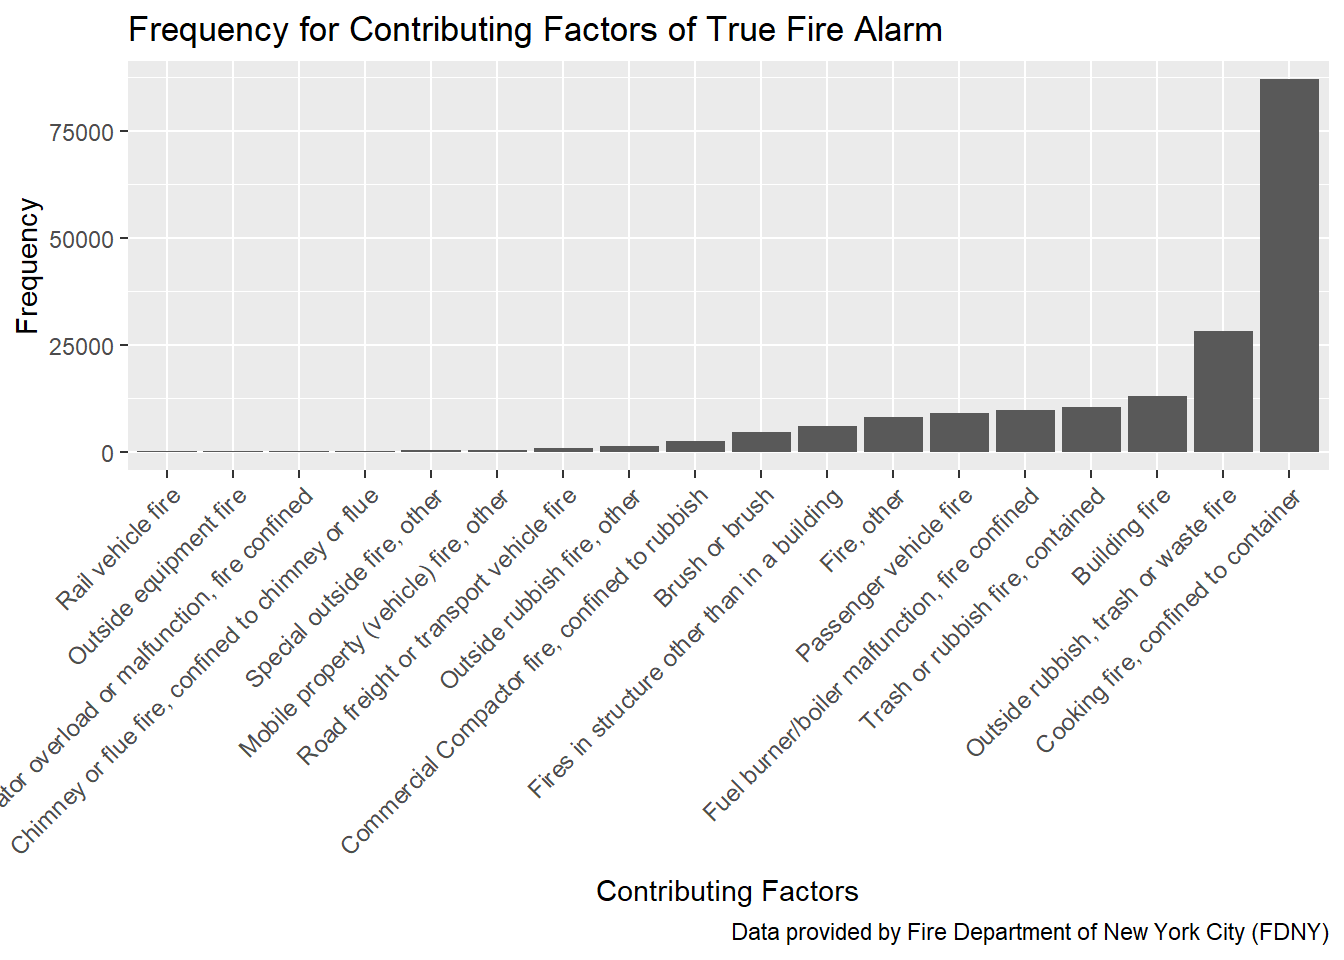
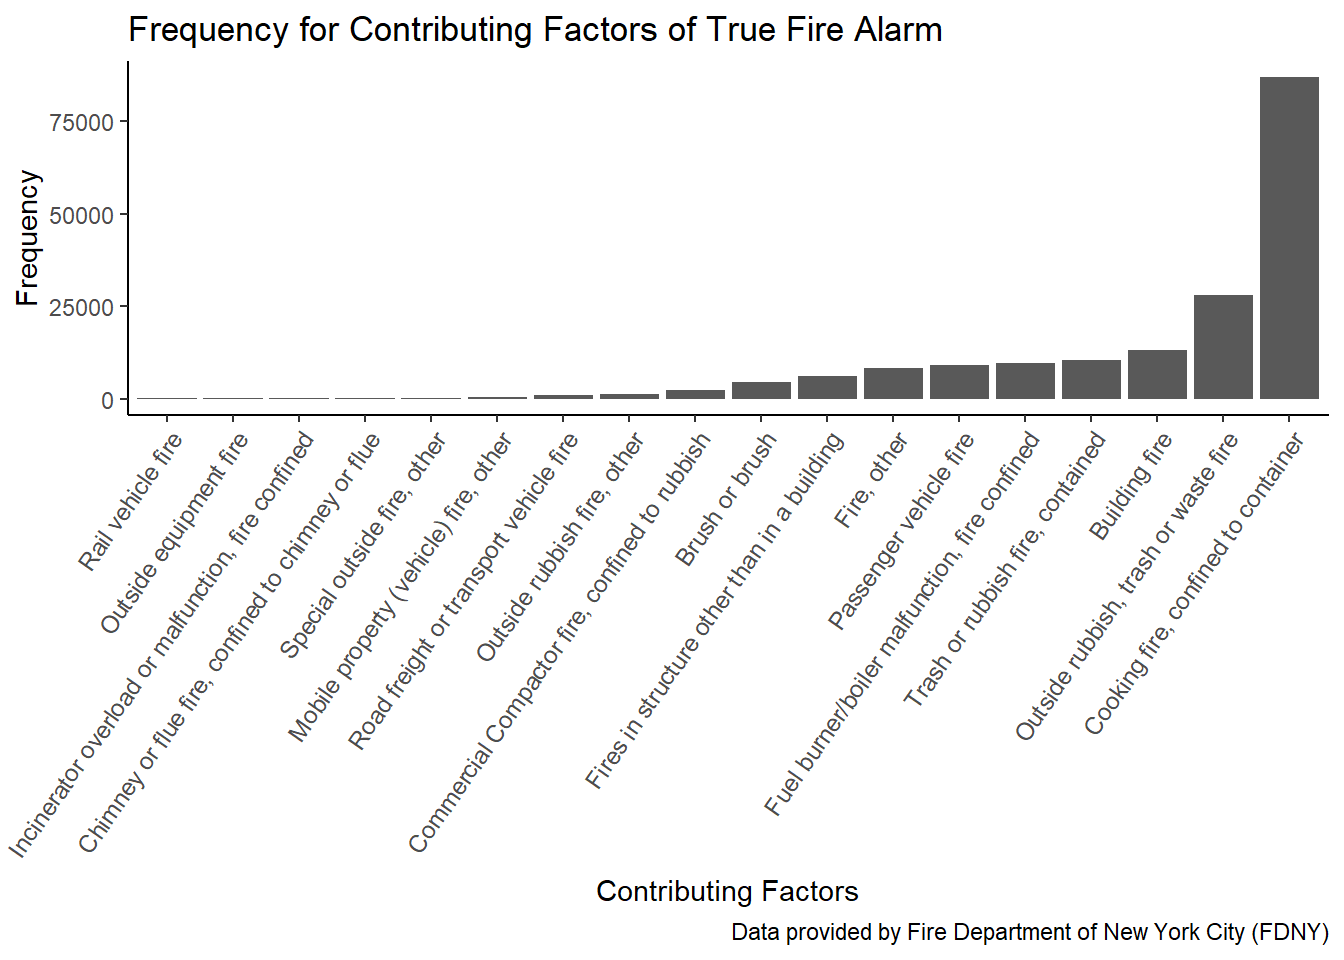
change of data import and plot theme related to fire factors

diff --git a/fire_factors.html b/fire_factors.html
@@ -15,7 +15,7 @@
 
 <script src="site_libs/jquery-1.11.3/jquery.min.js"></script>
 <meta name="viewport" content="width=device-width, initial-scale=1" />
-<link href="site_libs/bootstrap-3.3.5/css/bootstrap.min.css" rel="stylesheet" />
+<link href="site_libs/bootstrap-3.3.5/css/flatly.min.css" rel="stylesheet" />
 <script src="site_libs/bootstrap-3.3.5/js/bootstrap.min.js"></script>
 <script src="site_libs/bootstrap-3.3.5/shim/html5shiv.min.js"></script>
 <script src="site_libs/bootstrap-3.3.5/shim/respond.min.js"></script>
@@ -105,34 +105,34 @@ button.code-folding-btn:focus {
 <style type="text/css">
 /* padding for bootstrap navbar */
 body {
-  padding-top: 51px;
+  padding-top: 60px;
   padding-bottom: 40px;
 }
 /* offset scroll position for anchor links (for fixed navbar)  */
 .section h1 {
-  padding-top: 56px;
-  margin-top: -56px;
+  padding-top: 65px;
+  margin-top: -65px;
 }
 
 .section h2 {
-  padding-top: 56px;
-  margin-top: -56px;
+  padding-top: 65px;
+  margin-top: -65px;
 }
 .section h3 {
-  padding-top: 56px;
-  margin-top: -56px;
+  padding-top: 65px;
+  margin-top: -65px;
 }
 .section h4 {
-  padding-top: 56px;
-  margin-top: -56px;
+  padding-top: 65px;
+  margin-top: -65px;
 }
 .section h5 {
-  padding-top: 56px;
-  margin-top: -56px;
+  padding-top: 65px;
+  margin-top: -65px;
 }
 .section h6 {
-  padding-top: 56px;
-  margin-top: -56px;
+  padding-top: 65px;
+  margin-top: -65px;
 }
 </style>
 
@@ -226,22 +226,10 @@ $(document).ready(function () {
 </div>
 
 
-<pre class="r"><code># turn the factor variables with one level to character or integer
+<pre class="r"><code># load data from online source
 
-fire_data = read.csv(file = &quot;./data/Incidents_Responded_to_by_Fire_Companies.csv&quot;) %&gt;%
-  janitor::clean_names() %&gt;%
-  mutate(incident_type_desc = as.character(incident_type_desc),
-         incident_date_time = as.character(incident_date_time),
-         arrival_date_time = as.character(arrival_date_time),
-         last_unit_cleared_date_time = as.character(last_unit_cleared_date_time),
-         action_taken1_desc = as.character(action_taken1_desc),
-         action_taken2_desc = as.character(action_taken2_desc),
-         action_taken3_desc = as.character(action_taken3_desc),
-         property_use_desc = as.character(property_use_desc),
-         street_highway = as.character(street_highway),
-         zip_code = as.integer(zip_code),
-         floor = as.integer(floor)
-         )</code></pre>
+fire_data = read.socrata(&quot;https://data.cityofnewyork.us/resource/ibte-hq4u.csv&quot;) %&gt;%
+  janitor::clean_names()</code></pre>
 <pre class="r"><code># count the frequency of the specific description of incidents and plot with order
 
 fire_factor1 = fire_data %&gt;%
@@ -250,12 +238,11 @@ fire_factor1 = fire_data %&gt;%
   arrange(desc(count)) %&gt;%
   ungroup() %&gt;% 
   separate(incident_type_desc, into = c(&quot;incident_type&quot;, &quot;incident_desc&quot;), sep = &quot;-&quot;) %&gt;% 
-  mutate(incident_type = as.integer(incident_type),
+  mutate(incident_type = str_sub(incident_type, 1, 3), 
+         incident_type = as.integer(incident_type),
     incident_desc = forcats::fct_reorder(incident_desc, count))</code></pre>
 <pre><code>## Warning: Expected 2 pieces. Additional pieces discarded in 13 rows [19, 22,
 ## 44, 81, 82, 85, 89, 91, 108, 134, 141, 154, 178].</code></pre>
-<pre><code>## Warning in evalq(as.integer(incident_type), &lt;environment&gt;): NAs introduced
-## by coercion</code></pre>
 <pre class="r"><code>fire_factor1 %&gt;%
   filter(incident_type &gt;= 100 &amp; incident_type &lt;=199) %&gt;% 
   filter(count &gt; 100) %&gt;%
@@ -348,7 +335,8 @@ fire_factor1 = fire_data %&gt;%
   filter(count &gt; 100) %&gt;% 
   ggplot(aes(x = incident_desc, y = count)) +
   geom_col() +
-  theme(axis.text.x = element_text(angle = 45, hjust = 1, size = 9)) +
+  theme_classic() +
+  theme(axis.text.x = element_text(angle = 55, hjust = 1, size = 9)) +
   labs(title = &quot;Frequency for Contributing Factors of True Fire Alarm&quot;,
        x = &quot;Contributing Factors&quot;,
        y = &quot;Frequency&quot;,
